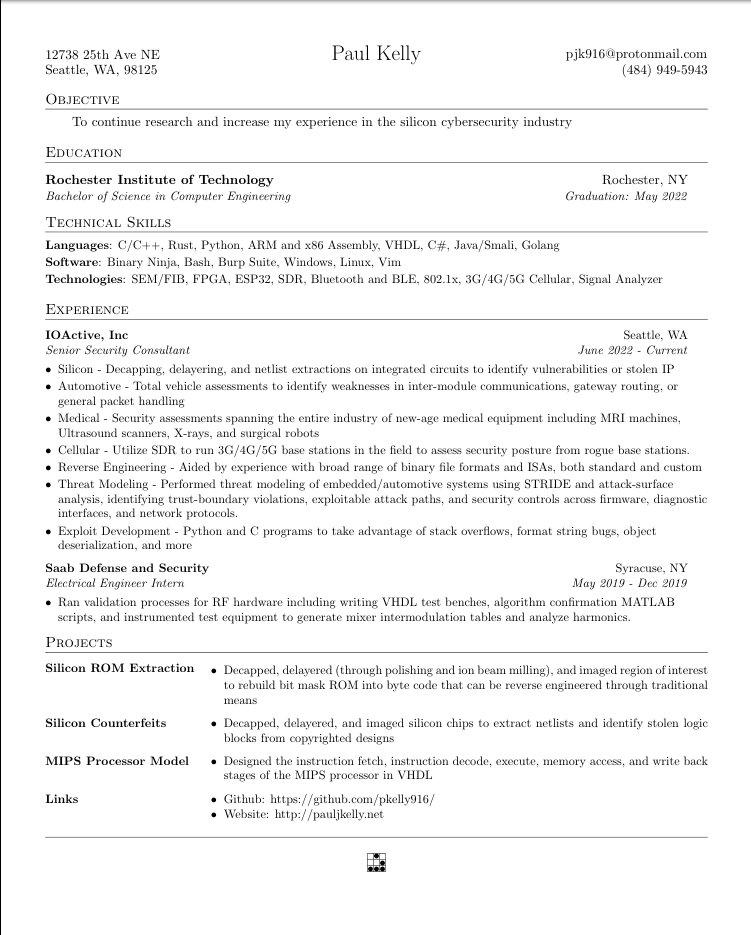
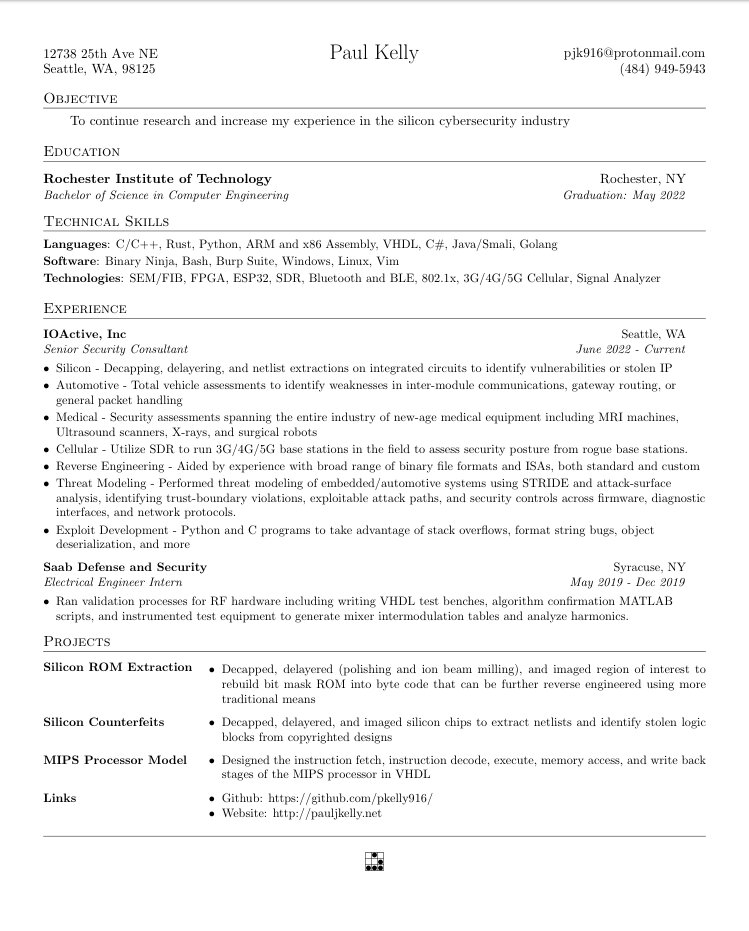
update

diff --git a/resume.tex b/resume.tex
@@ -154,7 +154,7 @@
         \vspace{10pt} % required for the first item
         \projectItem{Silicon ROM Extraction}{
             \vspace{8pt} % required for the first item
-        \item Decapped, delayered (through polishing and ion beam milling), and imaged region of interest to rebuild bit mask ROM into byte code that can be reverse engineered through traditional means
+        \item Decapped, delayered (polishing and ion beam milling), and imaged region of interest to rebuild bit mask ROM into byte code that can be further reverse engineered using more traditional means
         }
         \vspace{3pt} 
         \projectItem{Silicon Counterfeits}{
